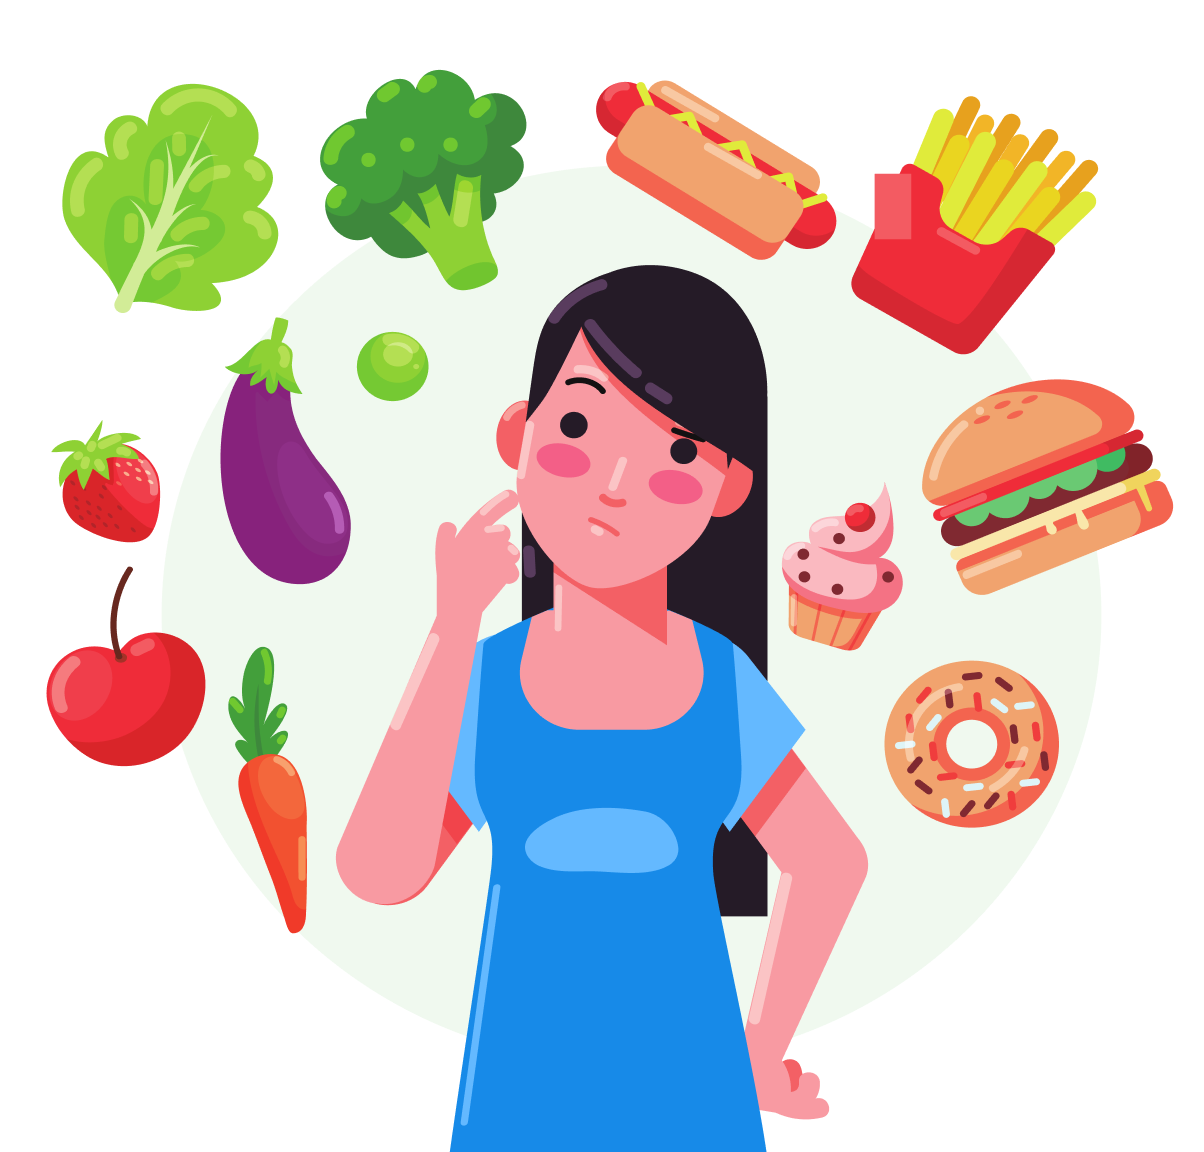
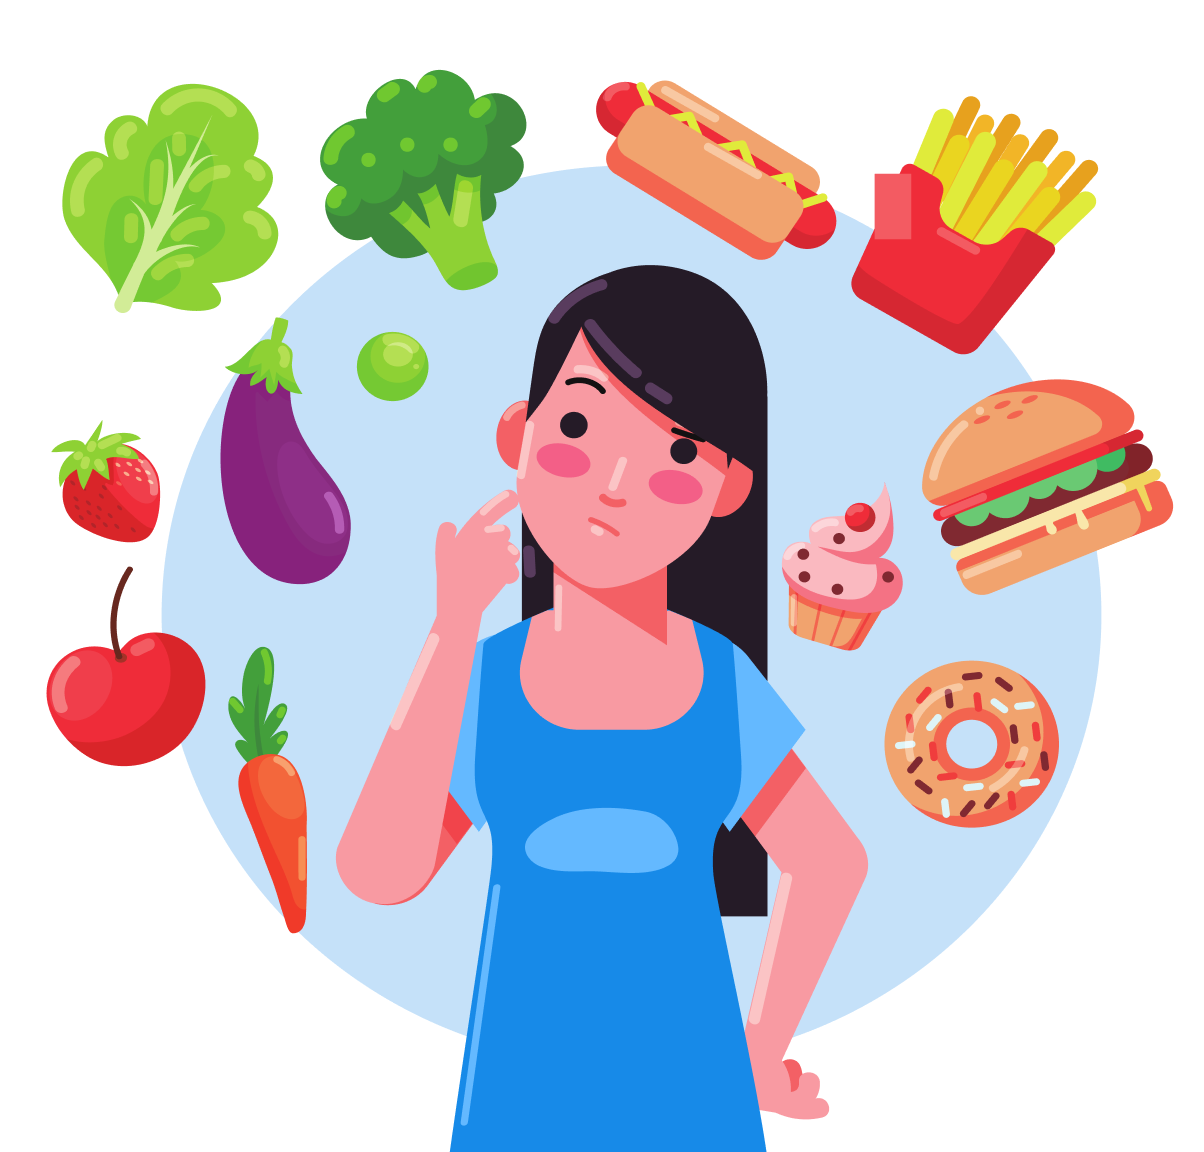
Made Illustrtion and Register Page UI changes

diff --git a/nutrigram_app/lib/ui/register/register_view.dart b/nutrigram_app/lib/ui/register/register_view.dart
@@ -1,0 +1,181 @@
+import 'package:flutter/material.dart';
+import 'package:nutrigram_app/common/HelperWidget/busy_button.dart';
+import 'package:nutrigram_app/common/ui/ui_helpers.dart';
+import 'package:nutrigram_app/constants/constants.dart';
+import 'package:nutrigram_app/constants/strings.dart';
+
+class RegisterView extends StatefulWidget {
+  @override
+  _RegisterViewState createState() => _RegisterViewState();
+}
+
+class _RegisterViewState extends State<RegisterView> {
+  bool obscureText = true;
+
+  FocusNode nameFocusNode;
+  FocusNode phoneFocusNode;
+  FocusNode passwordFocusNode;
+
+  TextEditingController _phoneController, _nameController, _passwordController;
+
+  @override
+  void initState() {
+    super.initState();
+    nameFocusNode = FocusNode();
+    phoneFocusNode = FocusNode();
+    passwordFocusNode = FocusNode();
+
+    _phoneController = TextEditingController();
+    _nameController = TextEditingController();
+    _passwordController = TextEditingController();
+  }
+
+  @override
+  Widget build(BuildContext context) {
+    return Scaffold(
+      body: ListView(
+        physics: BouncingScrollPhysics(),
+        children: <Widget>[
+          Navigator.canPop(context) ? AppBar() : SizedBox.shrink(),
+          Padding(
+            padding: const EdgeInsets.symmetric(horizontal: 24),
+            child: Column(
+              crossAxisAlignment: CrossAxisAlignment.center,
+              children: <Widget>[
+                Padding(
+                  padding: const EdgeInsets.symmetric(horizontal: 32),
+                  child: Image.asset(
+                    registerIllustration,
+                    width: MediaQuery.of(context).size.width,
+                  ),
+                ),
+                mHeightSpan,
+                Text(
+                  register,
+                  style: Theme.of(context).textTheme.headline4,
+                ),
+                lHeightSpan,
+                Form(
+                  child: Column(
+                    children: <Widget>[
+                      TextFormField(
+                        controller: _nameController,
+                        style: Theme.of(context).textTheme.caption,
+                        textCapitalization: TextCapitalization.words,
+                        keyboardType: TextInputType.text,
+                        focusNode: nameFocusNode,
+                        onEditingComplete: () {
+                          FocusScope.of(context).requestFocus(phoneFocusNode);
+                        },
+                        decoration: InputDecoration(
+                          hintStyle: Theme.of(context)
+                              .textTheme
+                              .caption
+                              .apply(color: kDisabledLightThemeColor),
+                          prefixIcon: Icon(
+                            Icons.perm_identity,
+                          ),
+                          hintText: fullName,
+                        ),
+                      ),
+                      mHeightSpan,
+                      TextFormField(
+                        controller: _phoneController,
+                        style: Theme.of(context).textTheme.caption,
+                        focusNode: phoneFocusNode,
+                        onEditingComplete: () {
+                          FocusScope.of(context)
+                              .requestFocus(passwordFocusNode);
+                        },
+                        keyboardType: TextInputType.number,
+                        decoration: InputDecoration(
+                          hintStyle: Theme.of(context)
+                              .textTheme
+                              .caption
+                              .apply(color: kDisabledLightThemeColor),
+                          prefixIcon: Icon(
+                            Icons.phone_android,
+                          ),
+                          hintText: phoneNumber,
+                        ),
+                      ),
+                      mHeightSpan,
+                      TextFormField(
+                        controller: _passwordController,
+                        style: Theme.of(context).textTheme.caption,
+                        focusNode: passwordFocusNode,
+                        onEditingComplete: () {
+                          FocusScope.of(context).requestFocus(FocusNode());
+                        },
+                        obscureText: obscureText,
+                        decoration: InputDecoration(
+                          hintStyle: Theme.of(context)
+                              .textTheme
+                              .caption
+                              .apply(color: kDisabledLightThemeColor),
+                          prefixIcon: Icon(
+                            Icons.lock_open,
+                          ),
+                          suffixIcon: Material(
+                            type: MaterialType.transparency,
+                            shape: CircleBorder(),
+                            child: InkWell(
+                              customBorder: CircleBorder(),
+                              child: Icon(obscureText
+                                  ? Icons.visibility
+                                  : Icons.visibility_off),
+                              onTap: () {
+                                setState(() {
+                                  obscureText = !obscureText;
+                                });
+                              },
+                            ),
+                          ),
+                          hintText: password,
+                        ),
+                      ),
+                      llHeightSpan,
+                      Container(
+                        decoration: BoxDecoration(
+                          boxShadow: getBoxShadow(
+                            context,
+                            kPrimaryColor,
+                          ),
+                        ),
+                        width: double.infinity,
+                        child: BusyButton(
+                          color: kPrimaryColor,
+                          title: (register), onPressed: () {},
+                          // busy: model.busy,
+                          // onPressed: model.busy
+                          //     ? null
+                          //     : () {
+                          //         model.register(
+                          //           _nameController.text,
+                          //           _phoneController.text,
+                          //           _passwordController.text,
+                          //         );
+                          //       },
+                        ),
+                      ),
+                      // mHeightSpan,
+                      FlatButton(
+                        onPressed: () {},
+                        splashColor: Colors.transparent,
+                        child: Text(
+                          alreadyHaveAnAccount,
+                          style: Theme.of(context).textTheme.button,
+                        ),
+                      ),
+                    ],
+                  ),
+                ),
+              ],
+            ),
+          ),
+          mHeightSpan,
+        ],
+      ),
+    );
+  }
+}

diff --git a/nutrigram_app/lib/ui/views/login/login_view.dart b/nutrigram_app/lib/ui/views/login/login_view.dart
@@ -1,5 +1,6 @@
 import 'package:flutter/material.dart';
 import 'package:flutter_icons/flutter_icons.dart';
+import 'package:nutrigram_app/common/HelperWidget/busy_button.dart';
 import '../../../common/ui/ui_helpers.dart';
 import '../../../constants/constants.dart';
 import '../../../constants/strings.dart';
@@ -47,7 +48,7 @@ class _LoginViewState extends State<LoginView> {
                     width: MediaQuery.of(context).size.width,
                   ),
                 ),
-                lHeightSpan,
+                sHeightSpan,
                 Text(
                   welcome,
                   style: Theme.of(context).textTheme.headline4,
@@ -138,25 +139,26 @@ class _LoginViewState extends State<LoginView> {
                       ),
                       mHeightSpan,
                       Container(
-                        // decoration: BoxDecoration(
-                        //   boxShadow: getBoxShadow(
-                        //     context,
-                        //     kPrimaryColor,
-                        //   ),
-                        // ),
+                        decoration: BoxDecoration(
+                          boxShadow: getBoxShadow(
+                            context,
+                            kPrimaryColor,
+                          ),
+                        ),
                         width: double.infinity,
-//                         child: BusyButton(
-// //                                color: primaryColor,
-//                           title: (login),
-//                         ),
+                        child: BusyButton(
+//                                color: primaryColor,
+                            title: (login),
+                            onPressed: () {}),
                       ),
-                      // FlatButton(
-                      //   splashColor: Colors.transparent,
-                      //   child: Text(
-                      //     dontHaveAccount,
-                      //     style: Theme.of(context).textTheme.button,
-                      //   ),
-                      // ),
+                      FlatButton(
+                        splashColor: Colors.transparent,
+                        onPressed: () {},
+                        child: Text(
+                          dontHaveAccount,
+                          style: Theme.of(context).textTheme.button,
+                        ),
+                      ),
                     ],
                   ),
                 )
@@ -294,9 +296,10 @@ class _ChangePasswordBottomSheetState extends State<ChangePasswordBottomSheet> {
             ),
           ),
           mHeightSpan,
-          // BusyButton(
-          //   title: changePassword,
-          // ),
+          BusyButton(
+            title: changePassword,
+            onPressed: () {},
+          ),
           mHeightSpan,
         ],
       ),
@@ -331,9 +334,10 @@ class ForgotPasswordBottomSheet extends StatelessWidget {
             ),
           ),
           mHeightSpan,
-          // BusyButton(
-          //   title: requestNewPassword,
-          // ),
+          BusyButton(
+            title: requestNewPassword,
+            onPressed: () {},
+          ),
           mHeightSpan,
         ],
       ),

diff --git a/nutrigram_app/lib/common/HelperWidget/busy_button.dart b/nutrigram_app/lib/common/HelperWidget/busy_button.dart
@@ -1,0 +1,56 @@
+import 'package:flutter/material.dart';
+import 'package:nutrigram_app/common/ui/ui_helpers.dart';
+import 'package:nutrigram_app/constants/constants.dart';
+
+/// A button that shows a busy indicator in place of title
+class BusyButton extends StatefulWidget {
+  final bool busy;
+  final String title;
+  final Function onPressed;
+  final bool enabled;
+
+  const BusyButton(
+      {@required this.title,
+      this.busy = false,
+      @required this.onPressed,
+      this.enabled = true,
+      Color color});
+
+  @override
+  _BusyButtonState createState() => _BusyButtonState();
+}
+
+class _BusyButtonState extends State<BusyButton> {
+  @override
+  Widget build(BuildContext context) {
+    return GestureDetector(
+      onTap: widget.onPressed,
+      child: InkWell(
+        child: Container(
+          height: 48,
+          alignment: Alignment.center,
+          decoration: BoxDecoration(
+              color: kPrimaryColor,
+              borderRadius: BorderRadius.circular(8),
+              boxShadow: getBoxShadow(context, kPrimaryColor)),
+          child: !widget.busy
+              ? Text(
+                  widget.title,
+                  style: Theme.of(context).textTheme.button.copyWith(
+                        color: kScaffoldBackgroundColor,
+                      ),
+                )
+              : Container(
+                  height: 36,
+                  width: 36,
+                  padding: EdgeInsets.all(8),
+                  child: CircularProgressIndicator(
+                    strokeWidth: 2,
+                    valueColor: AlwaysStoppedAnimation<Color>(Colors.white),
+                  ),
+                ),
+        ),
+      ),
+    );
+  }
+}

diff --git a/nutrigram_app/lib/ui/views/onboarding/onboarding_view.dart b/nutrigram_app/lib/ui/views/onboarding/onboarding_view.dart
@@ -4,6 +4,7 @@ import 'package:flutter_icons/flutter_icons.dart';
 import 'package:nutrigram_app/common/ui/ui_helpers.dart';
 import 'package:nutrigram_app/constants/constants.dart';
 import 'package:nutrigram_app/constants/strings.dart';
+import 'package:nutrigram_app/ui/register/register_view.dart';
 import 'package:nutrigram_app/ui/views/login/login_view.dart';
 import 'package:smooth_page_indicator/smooth_page_indicator.dart';
 
@@ -105,7 +106,7 @@ class _OnboardingViewState extends State<OnboardingView> {
                   DeviceOrientation.portraitDown,
                 ]);
                 Navigator.of(context)
-                    .push(MaterialPageRoute(builder: (_) => LoginView()))
+                    .push(MaterialPageRoute(builder: (_) => RegisterView()))
                     .then((onValue) {
                   SystemChrome.setPreferredOrientations([
                     DeviceOrientation.portraitDown,

diff --git a/nutrigram_app/lib/constants/strings.dart b/nutrigram_app/lib/constants/strings.dart
@@ -4,7 +4,7 @@ const String password = "Password";
 const String dontHaveAccount = "Don’t have an account?";
 const String phoneNumber = "Phone Number";
 const String afterLogin =
-    "After login, start your study career and wish you progress";
+    "After login, see your nutrition track, get recommendations, and start scaning!";
 const String welcome = "Welcome";
 const String register = "Register";
 const String fullName = "Full Name";
